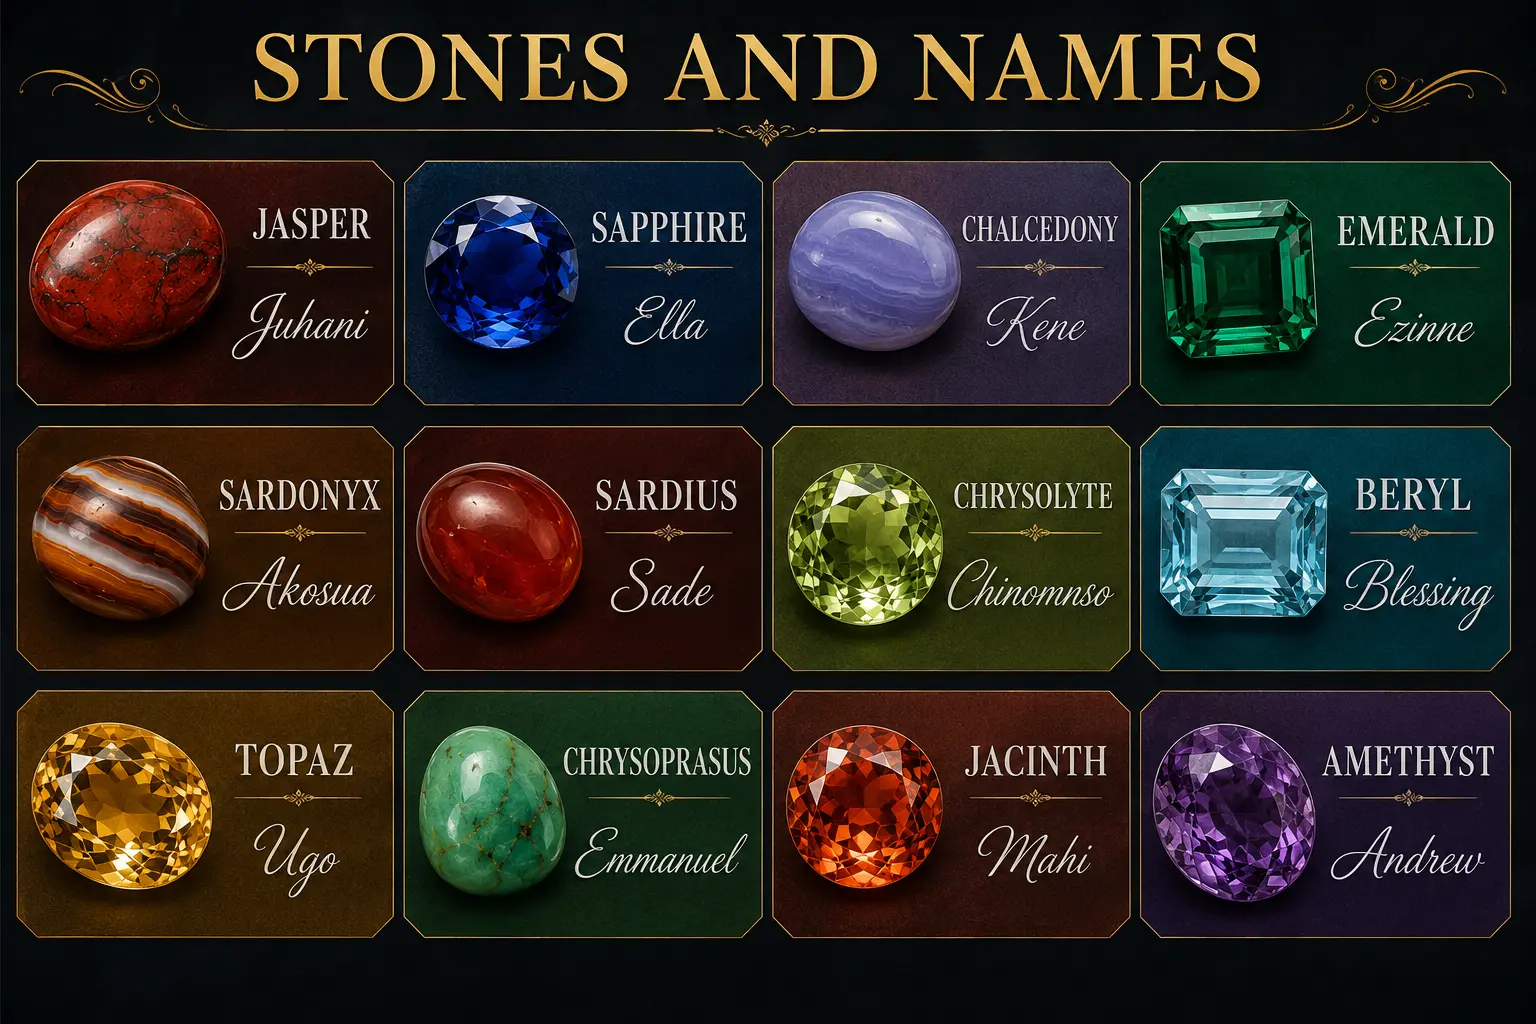
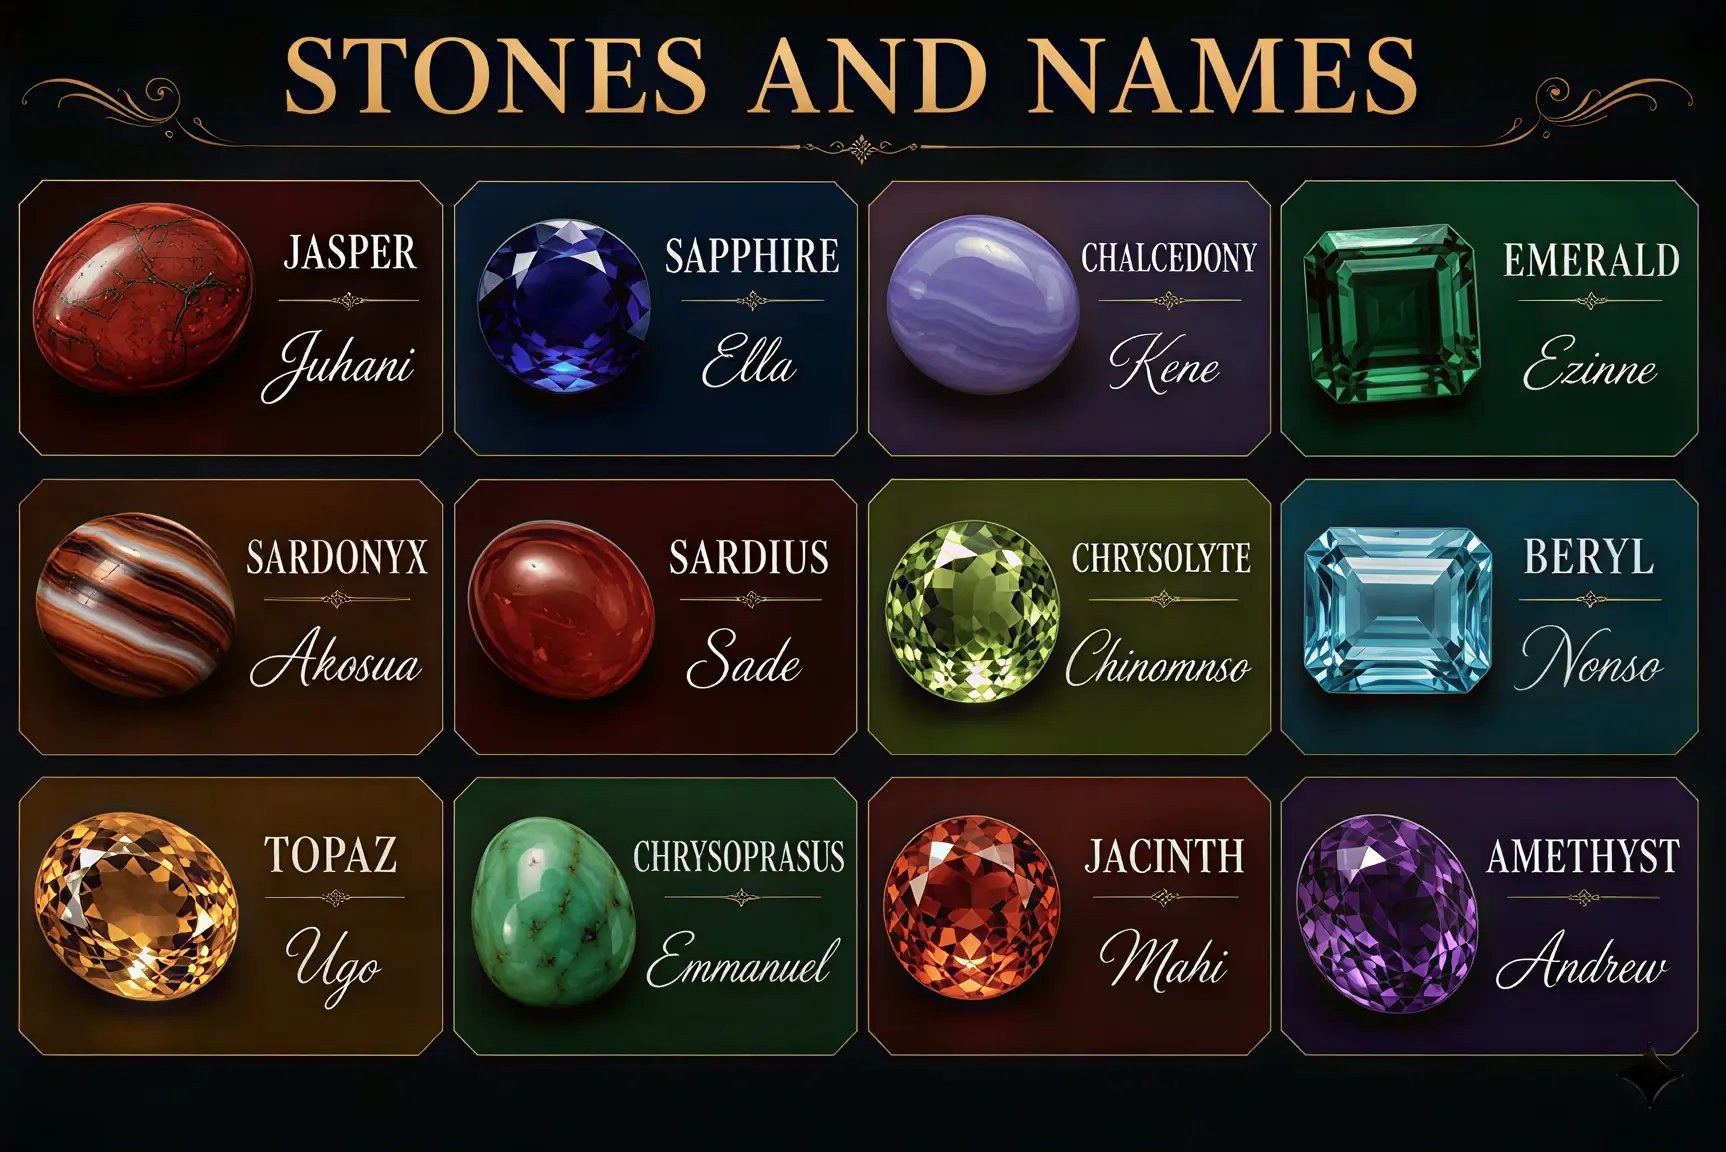
`feat(landing): replace Blessing A. with Nonso in lecturers and testimonials`

diff --git a/src/components/landing/lecturers.tsx b/src/components/landing/lecturers.tsx
@@ -3,9 +3,9 @@ import facultyBackground from '@/assets/images/bg/bg_lecturers.webp'
 import gemsImage from '@/assets/images/bg/gems.webp'
 import andrewImage from '@/assets/images/lecturers/andrew.webp'
 import akosyaImage from '@/assets/images/lecturers/akosya.webp'
-import blessingImage from '@/assets/images/lecturers/blessing.webp'
 import ellaImage from '@/assets/images/lecturers/ella.webp'
 import emmanuelImage from '@/assets/images/lecturers/emmanuel.webp'
+import nonsoImage from '@/assets/images/lecturers/nonso.webp'
 import ezinneImage from '@/assets/images/lecturers/ezinne.webp'
 import juhaniImage from '@/assets/images/lecturers/juhani.webp'
 import keneImage from '@/assets/images/lecturers/kene.webp'
@@ -39,10 +39,13 @@ const LECTURER_BIO_MAP: Record<string, string> = {
     'Emmanuel is a Gospel minister, author, web developer, and brand specialist from Nigeria, dedicated to proclaiming the Gospel of Jesus through outreaches, Christian books, and global digital ministry platforms.',
   'Ezinne O.':
     'Ezinne is a disciple of the Lord, devoted daily to learning at His feet and loving Him wholeheartedly. She is also a Product Leader focused on AI enablement, managing the development and launch of AI voice and multimodal products across Europe.',
+  // 'Blessing A.':
+  //   'Blessing is a Psychiatrist and solution-focused practitioner with a special interest in lifestyle medicine, addiction support, and youth counselling, with a passion for helping people achieve lasting wellbeing.',
+  Nonso:
+    // 'Nonso is a corporate financial attorney who bridges high-stakes legal practice with a fiery, faith-filled, Spirit-led marketplace ministry. He navigates complex regulatory and legal frameworks with elite precision while actively being a conduit for the supernatural, experiencing miracles, signs, wonders and answered prayers by the power, presence and person of the Holy Spirit.',
+    'Nonso is a corporate financial attorney who combines legal expertise with a faith-driven, Spirit-led ministry. He navigates complex legal and regulatory matters while being a conduit for the power and work of the Holy Spirit.',
   'Sade P.':
     'Sade is a Psychiatrist passionate about teaching and mentoring the next generation of doctors. She works across inpatient and community settings, delivering compassionate, evidence-based, and holistic patient-centred care.',
-  'Blessing A.':
-    'Blessing is a Psychiatrist and solution-focused practitioner with a special interest in lifestyle medicine, addiction support, and youth counselling, with a passion for helping people achieve lasting wellbeing.',
   'Kene O.':
     'Kene is a Capital Markets and Derivatives solicitor dual qualified in England, Wales, and Nigeria. She contributes to international financial industry working groups, promoting collaboration, market standards, and innovation.',
   'Mahidere A.':
@@ -166,6 +169,17 @@ const gemLecturers: Array<TeacherWithCourse> = [
     course: null,
   },
   {
+    id: 'gl-nonso',
+    fullName: 'Nonso',
+    email: '',
+    bio: LECTURER_BIO_MAP['Nonso'] ?? null,
+    lecturerTitle: 'Framing',
+    gemstone: 'beryl',
+    avatarUrl: nonsoImage,
+    createdAt: new Date(0),
+    course: null,
+  },
+  {
     id: 'gl-sade',
     fullName: 'Sade P.',
     email: '',
@@ -176,17 +190,17 @@ const gemLecturers: Array<TeacherWithCourse> = [
     createdAt: new Date(0),
     course: null,
   },
-  {
-    id: 'gl-blessing',
-    fullName: 'Blessing A.',
-    email: '',
-    bio: LECTURER_BIO_MAP['Blessing A.'] ?? null,
-    lecturerTitle: 'Framing',
-    gemstone: 'beryl',
-    avatarUrl: blessingImage,
-    createdAt: new Date(0),
-    course: null,
-  },
+  // {
+  //   id: 'gl-blessing',
+  //   fullName: 'Blessing A.',
+  //   email: '',
+  //   bio: LECTURER_BIO_MAP['Blessing A.'] ?? null,
+  //   lecturerTitle: 'Framing',
+  //   gemstone: 'beryl',
+  //   avatarUrl: blessingImage,
+  //   createdAt: new Date(0),
+  //   course: null,
+  // },
   {
     id: 'gl-kene',
     fullName: 'Kene O.',

diff --git a/src/components/landing/testimonials.tsx b/src/components/landing/testimonials.tsx
@@ -65,6 +65,14 @@ const testimonials: Array<TestimonialItem> = [
     theme: 'Walls',
   },
   {
+    id: 'nonso',
+    name: 'Nonso',
+    role: 'Pastor, -',
+    quote:
+      'Discipleship was primarily instrumental to my encounter with the reality of the person of the Holy Spirit, who carried me into the fellowship of his fullness. My personal walk with the Lord which hitherto was routine, usual and uneventful became a flaming and exciting daily walk of love and faith in ever increasing strides.',
+    theme: 'Framing',
+  },
+  {
     id: 'sade',
     name: 'Sade P.',
     role: 'Pastor, -',
@@ -72,14 +80,14 @@ const testimonials: Array<TestimonialItem> = [
       'My journey of discipleship is rooted in God’s grace! Discipleship has helped me to live intentionally and with purpose for Christ. It came to me at a point in my life where I had no direction and all hope seemed lost. Now I seek to live out Christ’s love daily, growing in faith and guiding others toward purpose and truth.',
     theme: 'Framing',
   },
-  {
-    id: 'blessing',
-    name: 'Blessing A.',
-    role: 'Pastor, -',
-    quote:
-      'Raised in a Christian home and active in church from a young age, I later came to a personal surrender to God through His mercy at a crusade. My discipleship journey continues by His grace as I grow in faith, serve in youth ministry, and participate in evangelism. I desire to help others discover their identity, draw closer to God, and experience wholeness in every area of life.',
-    theme: 'Framing',
-  },
+  // {
+  //   id: 'blessing',
+  //   name: 'Blessing A.',
+  //   role: 'Pastor, -',
+  //   quote:
+  //     'Raised in a Christian home and active in church from a young age, I later came to a personal surrender to God through His mercy at a crusade. My discipleship journey continues by His grace as I grow in faith, serve in youth ministry, and participate in evangelism. I desire to help others discover their identity, draw closer to God, and experience wholeness in every area of life.',
+  //   theme: 'Framing',
+  // },
   {
     id: 'kene',
     name: 'Kene O.',